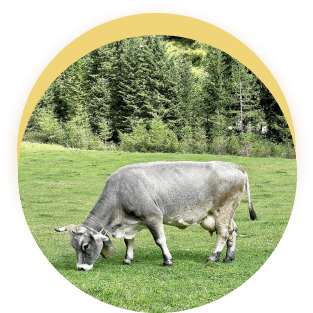
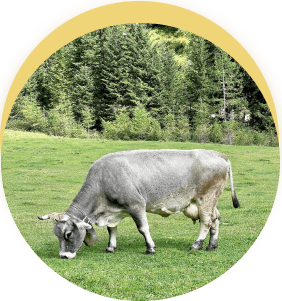
fix1226

diff --git a/src/sass/components/_about.scss b/src/sass/components/_about.scss
@@ -1,4 +1,4 @@
-.about .container{
+.about {
     background: $primaryColor;
     @media screen and(min-width: $tablet) {
         position: relative;
@@ -52,7 +52,7 @@ color: $white;
         width: 330px;
         position: absolute;
         top: 214; 
-        margin-right: 38px;   
+          
     }
     @media screen and(min-width:$desktop) {
 
@@ -62,12 +62,12 @@ color: $white;
 }
 .thumb{
     @media screen and(min-width: $tablet) {
-      margin-left: 368px;
+      margin-left: 391px;
          
     }
     @media screen and(min-width:$desktop) {
         margin-left: 584px;
-        margin-right: 89px;
+        margin-right: 105px;
     }
 
 }
@@ -79,14 +79,19 @@ line-height: 2.1;
 text-align: center;
 letter-spacing: 0.04em;
 color: $white;
+
 @media screen and(min-width: $tablet) {
    margin: 0;
+   margin-bottom: 8px;
+   line-height: 1.7;
    text-align: left;
 }
 @media screen and(min-width: $desktop) {
-    font-size: 14px;
+    font-size: 16px;
  }
 }
+
+
 .text-hidden{
     display: none;
     @media screen and(min-width: $tablet) {
@@ -98,7 +103,7 @@ color: $white;
 
 .about-button{
     display: block;
-    margin: 22px auto 0 auto;
+    margin: 0 auto 0 auto;
     padding: 12px 35px 12px 34px;
     background-color: $secondaryYellow;
     border: none;
@@ -122,11 +127,11 @@ color: $white;
         opacity: 0.9;
         cursor: pointer; } 
         @media screen and(min-width: $tablet) {
-            margin: 32px 0 80px 0;
+            margin: 24px 0 80px 0;
                
           }
           @media screen and(min-width: $desktop) {
-            margin: 54px 0 146px 0;
+            margin: 46px 0 146px 0;
                
           }
 }

diff --git a/src/partials/about.html b/src/partials/about.html
@@ -16,7 +16,7 @@ src="./images/about-cow/Корова-280-min.png" alt="natural products cow" wid
        23 milkshakes. </p>
        <p class="about-title__text text-hidden">This is enough to choose ice cream and 
            coffee for any mood!</p>
-           <button type="button" class="about-button">Read more  <svg class="arrow-icon">
+           <button type="button" class="about-button" read-more-modal-open>Read more  <svg class="arrow-icon">
             <use xlink:href="#arrow-icon"></use>
           </svg>
            </button></div> 
